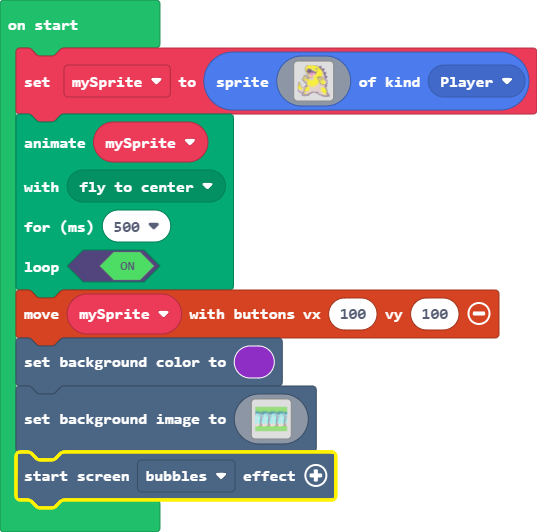
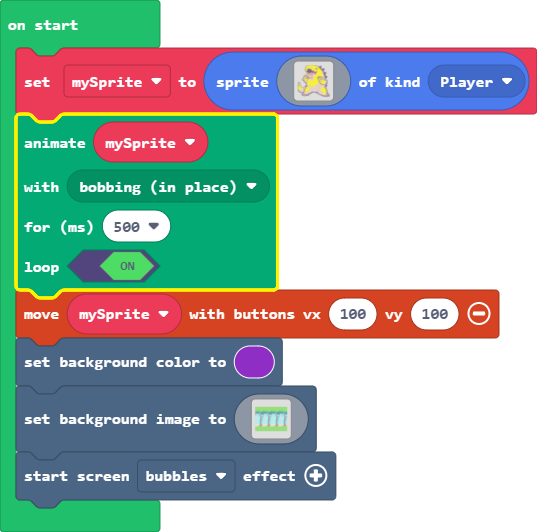
Update main.blocks, main.ts

Changed region(s): [[0.0, 0.2105, 0.5363, 0.5714], [0.0, 0.8421, 0.6555, 0.9624]]

diff --git a/main.ts b/main.ts
@@ -78,7 +78,7 @@ let mySprite = sprites.create(img`
     `, SpriteKind.Player)
 animation.runMovementAnimation(
 mySprite,
-animation.animationPresets(animation.flyToCenter),
+animation.animationPresets(animation.bobbing),
 500,
 true
 )
